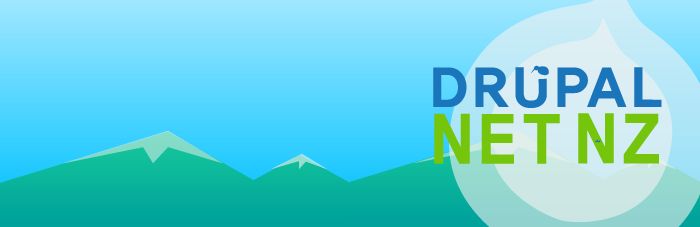
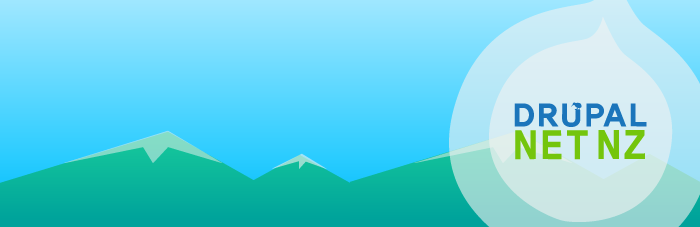
theme change 4pm

Changed region(s): [[0.6, 0.2775, 0.96, 0.7401]]

diff --git a/sites/all/themes/drupalnetnz/css/global.css b/sites/all/themes/drupalnetnz/css/global.css
@@ -385,24 +385,52 @@ table tbody tr.even td {
   padding: 20px 0px;
 }
 
+/*PAGE IMAGES*/
+.node-plain-page .field-type-image img
+{
+float:left;
+margin: 0px 10px 10px 0px;
+}
 
+.node-plain-page .field-group-format-wrapper
+{
+clear:both;
+}
  
- /*Roxs general fixes*/
+ /*FRONT*/
  
  .front-about {
 background: transparent url('img/banner_front.png') no-repeat right;
-height: 227px;
+height: 187px;
 width: auto;
+padding:20px;
 }
+
+ .front-about h3
+ {
+ margin-top:0;
+ }
+
+  .front-about p
+ {
+ display:block;
+ width:50%;
+ }
 
  /*Mobile overrides*/
   @media screen and (max-width: 450px){
-  
-   .front-about {
+.front-about {
 background: transparent url('img/banner_front.png') no-repeat left;
-height: 227px;
-width: auto;
-}}
+} 
+
+  .front-about p
+ {
+ display:block;
+ width:100%;
+ }
+
+/*End 450w media query*/}
+
     @media screen and (max-width: 480px){
  .block-menu-menu-footer-navigation {
 float: none;
@@ -417,8 +445,20 @@ float: none;
 display: block;
 float: none;
 font-size: 16px;
- }}
+}
+
+ /*End 480w media query*/}
   
-    
-    
+ /*Tablet widths*/
+@media screen and (max-width: 980px) and (min-width: 700px) {
+
+  .front-about p
+ {
+ display:block;
+ width:40%;
+ }
+
+
+/*End tablet media query*/}
+ 
     
